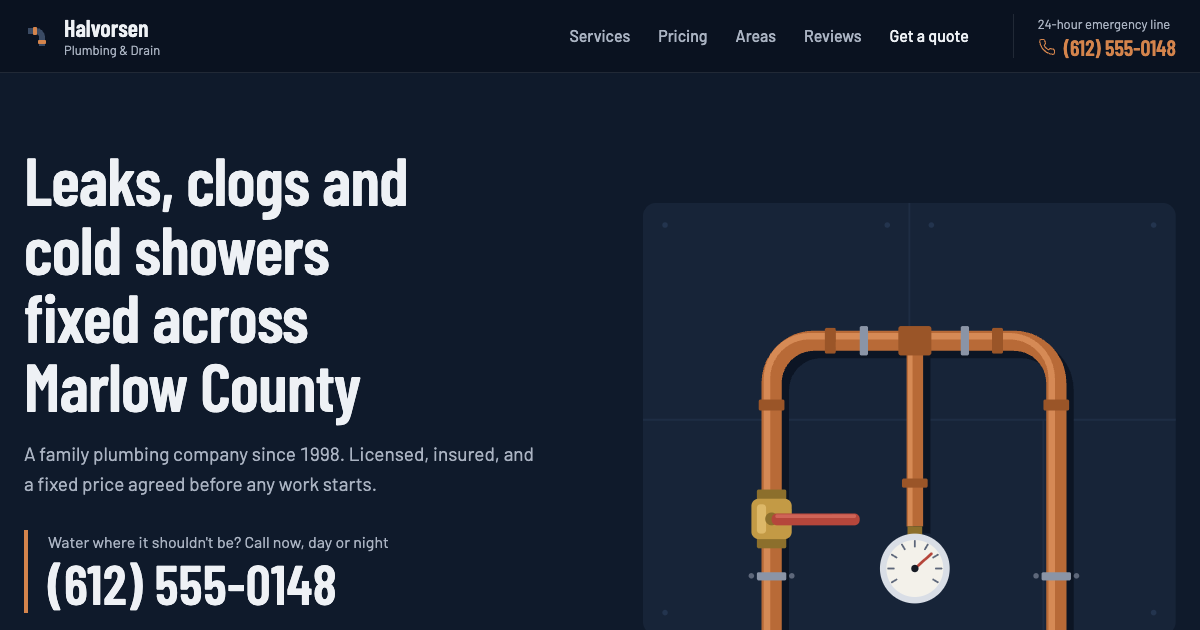
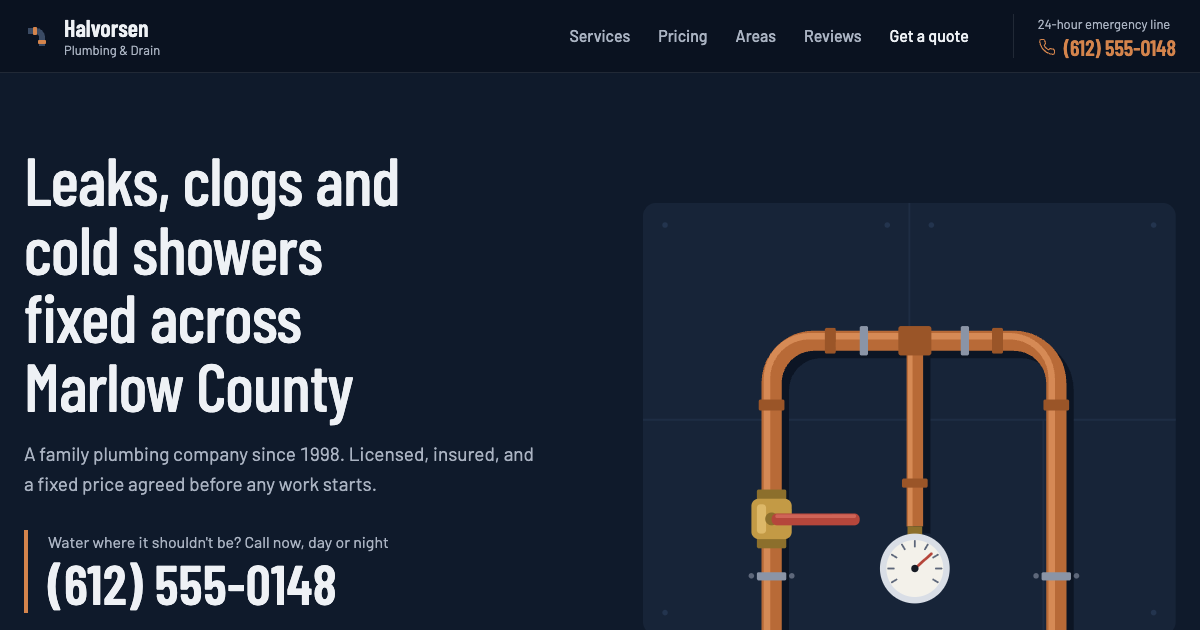
Unslop pass: lighter headings, no decorative service numbers or redundant trip column, shorter emergency option, screenshots

Changed region(s): [[0.0308, 0.2413, 0.3392, 0.4524], [0.0308, 0.573, 0.3083, 0.6937], [0.0308, 0.4825, 0.2775, 0.5429]]

diff --git a/src/data/site.ts b/src/data/site.ts
@@ -34,7 +34,7 @@ export const site = {
     { href: "/reviews", label: "Reviews" },
   ],
   quoteTopics: ["Drain or sewer", "Water heater", "Leak or repipe", "Fixture install", "Camera inspection", "Something else"],
-  urgency: ["It's an emergency (water is running now)", "In the next day or two", "This week", "Planning ahead"],
+  urgency: ["Emergency, water is running now", "In the next day or two", "This week", "Planning ahead"],
 };
 
 export type Service = {

diff --git a/src/styles/global.css b/src/styles/global.css
@@ -100,7 +100,7 @@ a {
 
 .display {
   font-family: var(--font-display);
-  font-weight: 600;
+  font-weight: 500;
   line-height: 1.02;
   letter-spacing: -0.01em;
 }

diff --git a/UNSLOP.md b/UNSLOP.md
@@ -1,0 +1,35 @@
+# Unslop pass
+
+Done with the unslop skill (unslop by Damir Sokolovsky, @heydamir, CC BY 4.0) on November 25, 2026.
+
+## Audit
+
+Light slop: built with its own palette, type and drawn pipe run, so this was polish mode. Signs found:
+
+- Display headings at weight 600 everywhere (`.display` in `global.css`, the areas aside heading)
+- Zero-padded index numbers ("01" to "05") in copper beside every service, decoration with no meaning (`services.astro`)
+- A "Trip charge" column that said "None" on every row, repeating what the page intro already says (`areas.astro`)
+- A long emergency option ("It's an emergency (water is running now)") that was cut off in the select (`site.ts`)
+
+No gradients on chrome, glows, gradient text, emoji, pill badges above headlines, uppercase tracked labels, italic emphasis, trailing periods on labels, hype words, looping motion or `transition-all` were found.
+
+## Direction
+
+- Product: a family plumbing company in Marlow County, for people with water where it shouldn't be and people planning a job
+- Character: dependable, direct, plainspoken
+- World: copper pipe, brass valves, a van parked at night; ink-navy surfaces with warm off-white pages, copper as the one accent
+- Moments: the drawn copper pipe run with its shutoff valve and pressure gauge in the hero, and the published price table
+- Signature: the copper elbow fitting at the end of a pipe rule, used only as section dividers
+
+## Changes
+
+- Spacing: services rows now two columns (content and the price card), no empty 64px number column
+- Color: copper stays on the call buttons, the emergency number and the elbow fittings only
+- Copy: the emergency option reads "Emergency, water is running now"; the always-"None" trip charge column removed (the intro already says no trip charge in Marlow County)
+- Type: Barlow Condensed headings down from 600 to 500, hierarchy from size; tabular figures on prices kept
+- Layout: no change needed (asymmetric hero, price card beside each service, wider first review)
+- Details: decorative service numbers removed
+- Motion: no change needed (color transitions and a small press scale only)
+
+screenshot-2: Pricing guide with the rates and the common jobs table
+screenshot-3: Quote form beside the "Water running now?" steps
